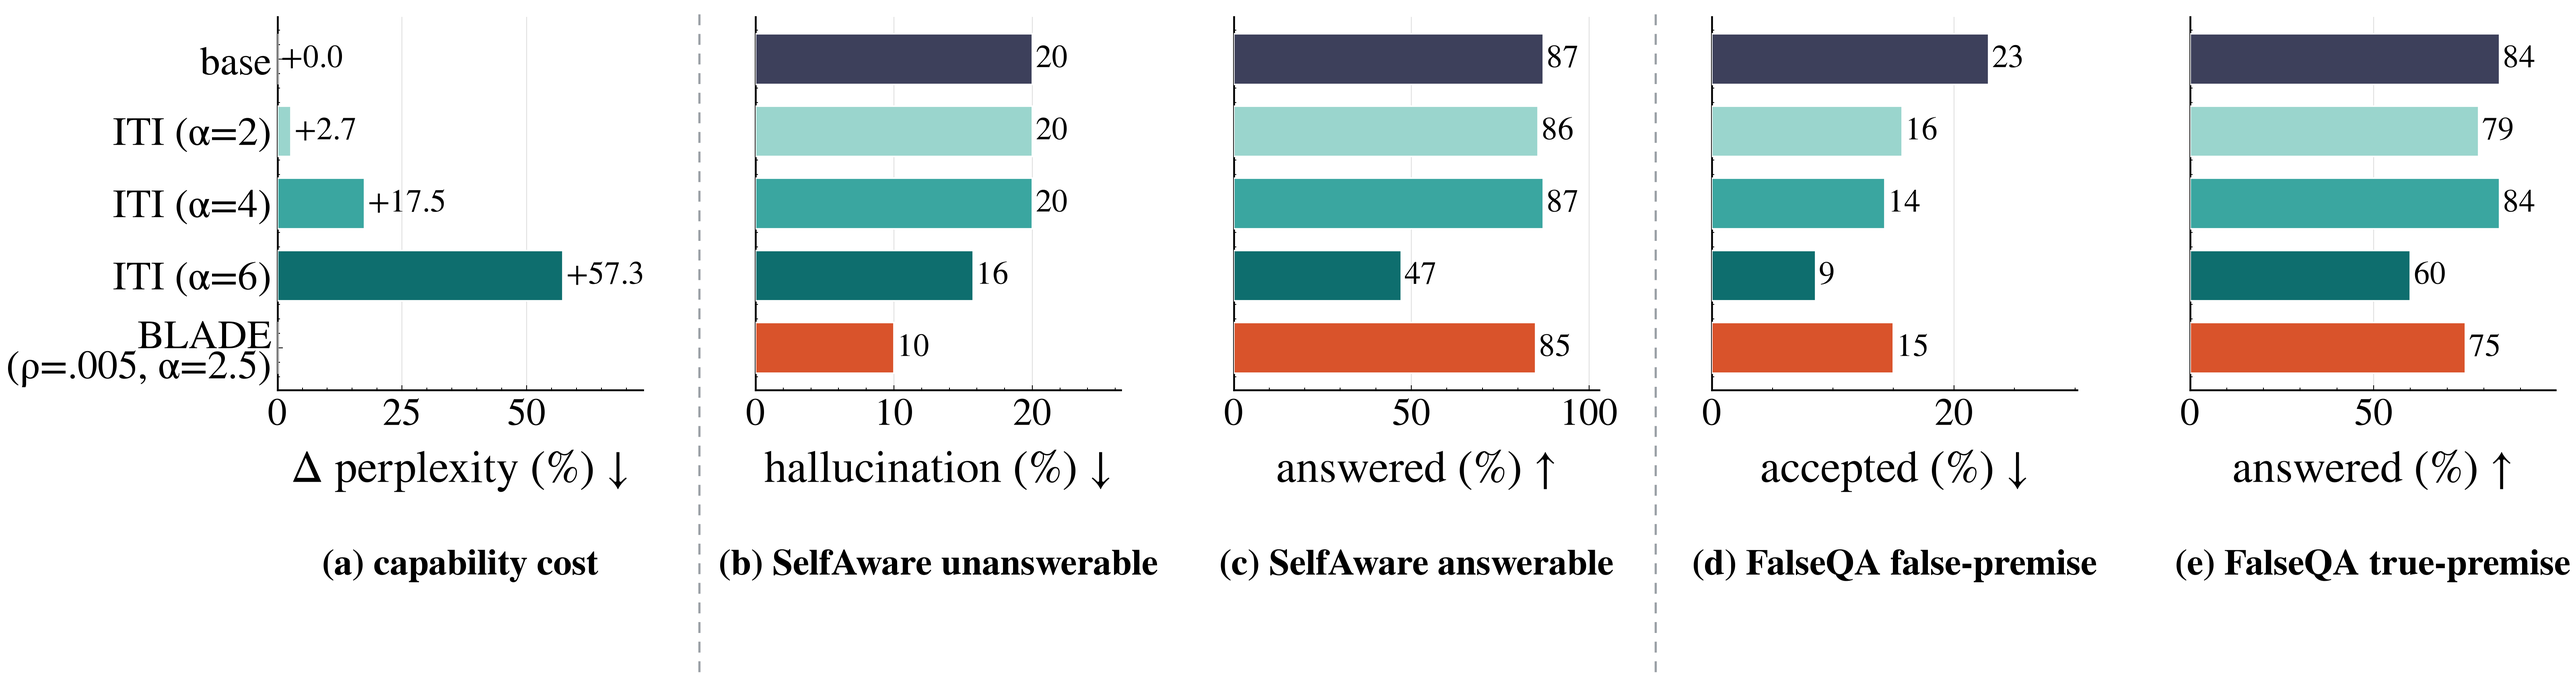
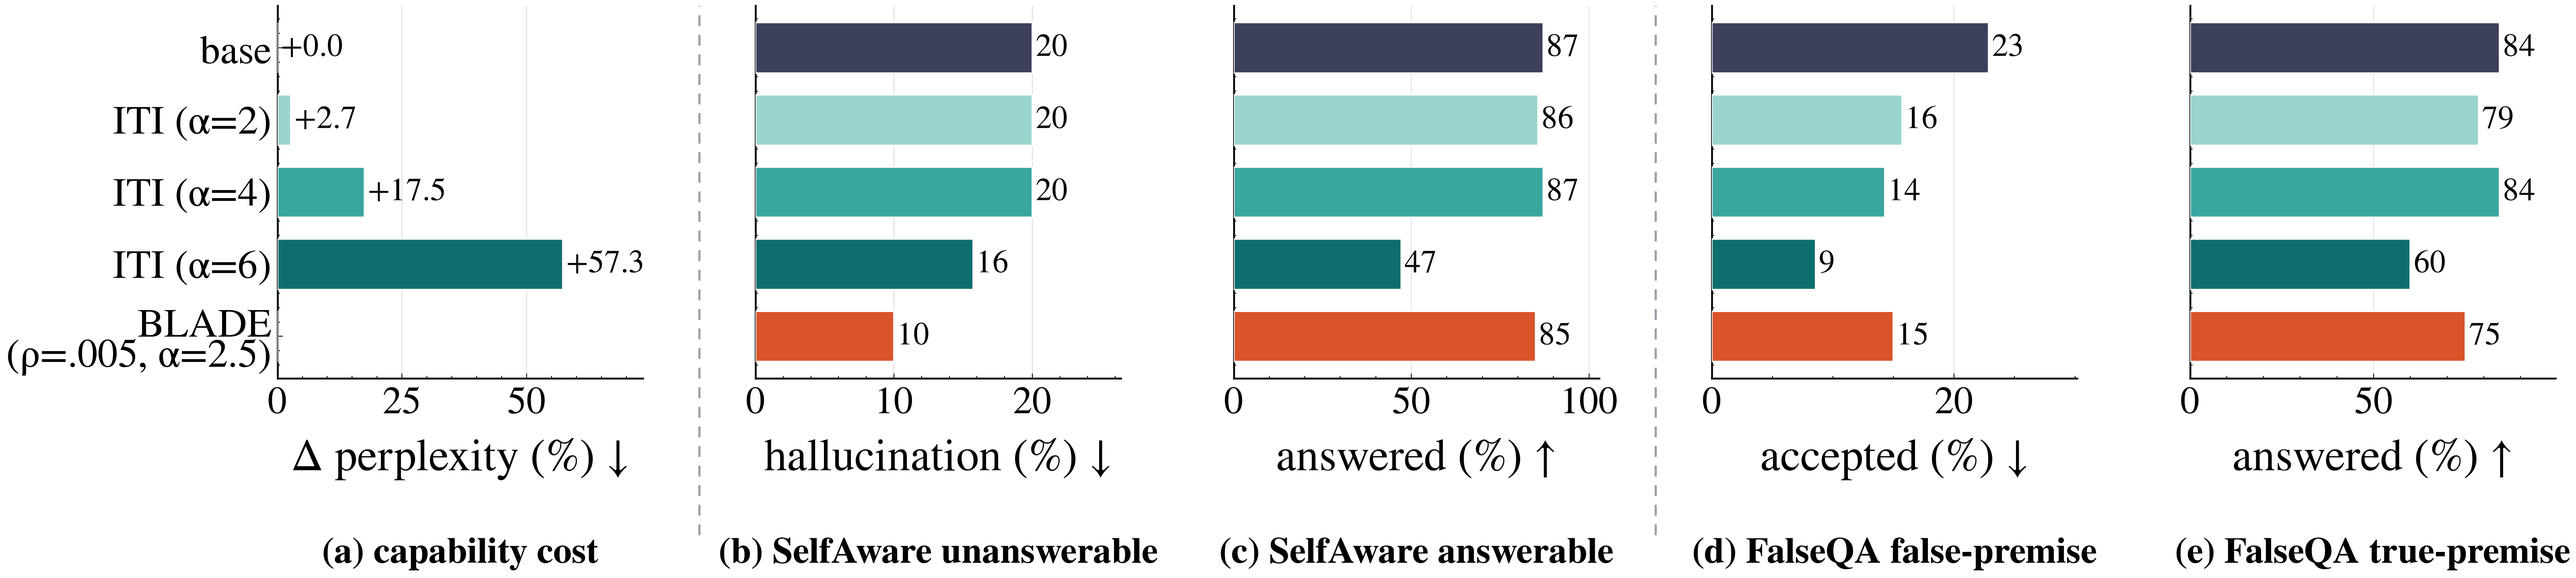
uncertainty_method_cmp: dashed dividers stop at subtitle level (no dangling into bottom whitespace); tighter bottom margin

diff --git a/scripts/plot_method_comparison.py b/scripts/plot_method_comparison.py
@@ -82,9 +82,12 @@ for k, (ax, (ds, gold, title, xlab, low)) in enumerate(zip(axes.flat, PAN)):
 fig.tight_layout()
 # dashed divider between SelfAware (panels 1-2) and FalseQA (panels 3-4)
 import matplotlib.lines as mlines
+p0 = axes[0].get_position()
+y_top = p0.y1                              # top of the plot area
+y_bot = p0.y0 - 0.42 * p0.height          # down to the panel subtitle, then stop
 for a, b_ in [(0, 1), (2, 3)]:   # capability | SelfAware | FalseQA
     xd = (axes[a].get_position().x1 + axes[b_].get_position().x0) / 2
-    fig.add_artist(mlines.Line2D([xd, xd], [0.04, 0.96], color="#9AA0A6", ls=(0, (5, 4)),
+    fig.add_artist(mlines.Line2D([xd, xd], [y_bot, y_top], color="#9AA0A6", ls=(0, (5, 4)),
                                  lw=1.3, transform=fig.transFigure))
 for ext in ("png", "pdf"):
     fig.savefig(FIG / f"uncertainty_method_cmp.{ext}", dpi=300, bbox_inches="tight")
